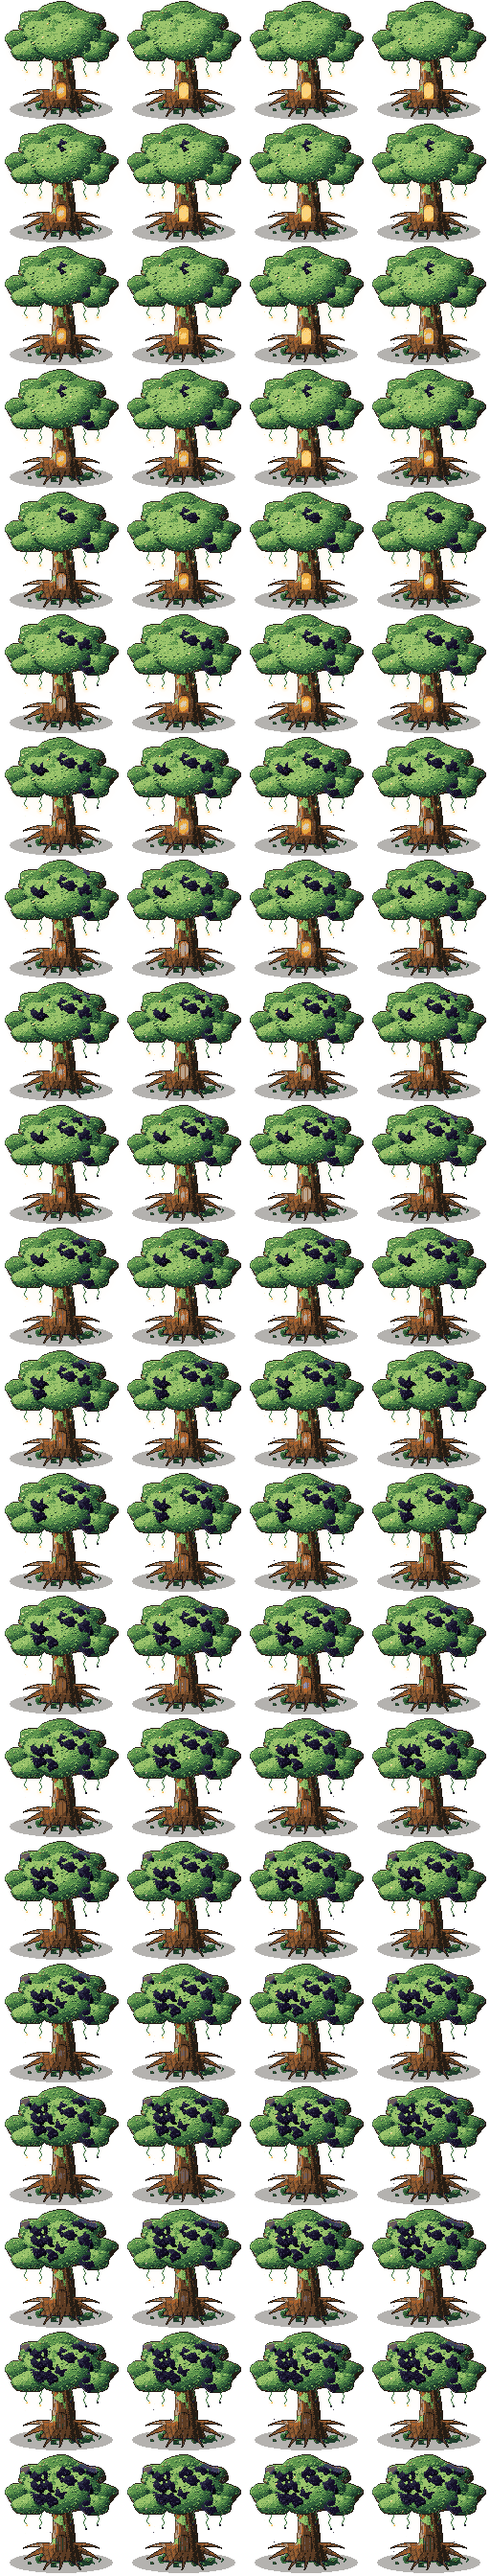
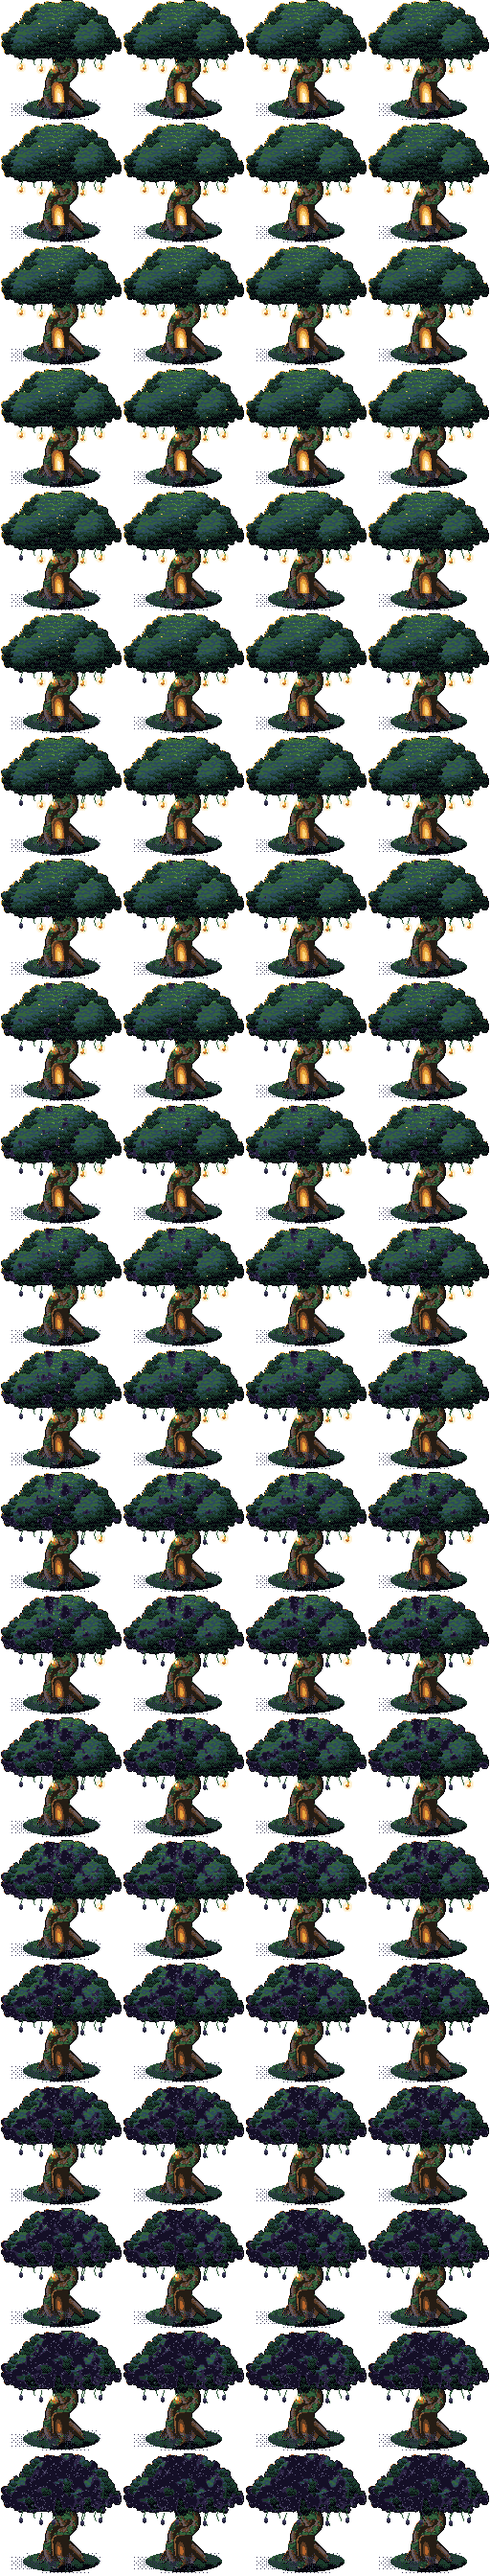
Map Heartwood: redrawn to match the Memory Grove's Heartwood
Twisted three-strand trunk leaning in an S, cool grey-brown mossy bark with a 1 px gold rim, the Hollow's banded gold light, a night crown (green-black shade, cool lit tops, a few bright clusters), moss drapes and dream-fruit, a mossy mound and muted violet mist at its feet. Same sheet format (21 damage rows x 4 frames, 128 px): rot spreads, fruit darken one per 4 leaves lost, the rim turns ember, the Hollow fades by 20. The sheet is palette-snapped only (SNAP_ONLY): it's drawn with its own rim and banding, and the shared detail pass doubled the rim and haloed the crown.

diff --git a/Project_T/tools/environment_art/heartwood_grounds.html b/Project_T/tools/environment_art/heartwood_grounds.html
@@ -783,120 +783,136 @@ function mist(A, f, eyes = true) {
 }
 
 // `lost` leaves (0–20): each one blackens a patch of canopy and dims the hollow.
+// The Heartwood (goal), redrawn 2026-09-30 to match the Memory Grove's Heartwood (tools/meta_art):
+// a twisted three-strand trunk leaning in an S, cool grey-brown mossy bark with a 1 px gold rim, the
+// Hollow's banded gold light, a night crown (green-black shade, cool lit tops, a few bright clusters),
+// moss drapes and dream-fruit, a mossy mound, and muted violet dream mist at its feet.
+// Damage (lost 0..20): rot spreads through the crown, fruit go dark one per 4 leaves, the rim turns
+// ember and the Hollow's light fades out by 20. Colours by Heartwood 32 name.
+const HWN = {
+  Void: "#05050d", Night: "#24243c", Dusk: "#3c3c5c", Slate: "#5c5a78", Dread: "#140f26", Shade: "#2c2444",
+  Bruise: "#4c3c74", Wraithlight: "#9a84e8", Deepmoss: "#1c3c2c", Moss: "#34643c", Leaf: "#5c944c",
+  Root: "#241c14", Bark: "#5c3c24", Oak: "#8c5c34", Loam: "#6c5c5c", Ember: "#b8662c", Gold: "#e9a83c",
+  Glow: "#fcd47c", Heartlight: "#fff4dc", Pool: "#2c4c5c",
+};
+function heartCatmull(pts, samples) {
+  const out = [];
+  for (let i = 0; i < pts.length - 1; i++) {
+    const p0 = pts[Math.max(0, i - 1)], p1 = pts[i], p2 = pts[i + 1], p3 = pts[Math.min(pts.length - 1, i + 2)];
+    for (let s = 0; s < samples; s++) {
+      const t = s / samples, t2 = t * t, t3 = t2 * t;
+      out.push([0, 1].map(k => .5 * (2 * p1[k] + (-p0[k] + p2[k]) * t + (2 * p0[k] - 5 * p1[k] + 4 * p2[k] - p3[k]) * t2 + (-p0[k] + 3 * p1[k] - 3 * p2[k] + p3[k]) * t3)));
+    }
+  }
+  out.push(pts[pts.length - 1]);
+  return out;
+}
+function heartPath(L, pts, w0, w1, fn) {
+  let len = 0; const cum = [0];
+  for (let i = 1; i < pts.length; i++) { len += Math.hypot(pts[i][0] - pts[i - 1][0], pts[i][1] - pts[i - 1][1]); cum.push(len); }
+  for (let i = 1; i < pts.length; i++) stroke(L, pts[i - 1][0], pts[i - 1][1], pts[i][0], pts[i][1], w0 + (w1 - w0) * cum[i - 1] / len, w0 + (w1 - w0) * cum[i] / len, fn);
+}
 function heartwood(A, f, lost = 0) {
-  // The Heartwood keeps its own warm moss-gold in every act: it's the warm side of the contrast.
-  const W = 128, out = new Img(W, W), Tr = new Img(W, W), Cn = new Img(W, W);
-  const HC = HEART_CANOPY, HB = HEART_BARK, bf = barkFn(HB), warm = 1 - lost / 26, flick = [.8, .92, 1, .9][f];
-
-  // Warm halo behind the whole tree, ground shadow, and a ring of moss at its foot.
-  ellipse(out, 64, 46, 62, 46, (x, y, dx, dy) => CA("#ffd27a", (1 - Math.hypot(dx, dy)) * .2 * warm));
-  ellipse(out, 64, 114, 54, 11, SHADOW(.34));
-  ellipse(out, 64, 111, 42, 8, (x, y, dx, dy) => {
-    const n = pnoise(x, y, 5, 41);
-    return n + Math.hypot(dx, dy) * .5 > .95 ? null : pick([HC[1], HC[2], HC[3]], clamp(.5 - dy * .4 + (n - .5), 0, 1), x, y);
-  });
-
-  // Roots: tapering curves that spread and curl over the ground.
-  const root = (p0, p1, p2, w0) => {
-    let [px, py] = p0;
-    for (let i = 1; i <= 10; i++) {
-      const t = i / 10, u = 1 - t;
-      const x = u * u * p0[0] + 2 * u * t * p1[0] + t * t * p2[0], y = u * u * p0[1] + 2 * u * t * p1[1] + t * t * p2[1];
-      stroke(Tr, px, py, x, y, w0 * (1 - (t - .1) * .8), w0 * (1 - t * .8), bf);
-      px = x; py = y;
-    }
+  const MH = 128, out = new Img(MH, MH), WOOD = new Img(MH, MH), dmg = lost / 20, E = ellipseRaw;
+  // Ground: a low mossy mound the roots sink into (lit on its upper left).
+  E(out, 64, 113, 40, 11, (x, y, dx, dy) => pick([HWN.Void, HWN.Deepmoss, HWN.Deepmoss, HWN.Moss], clamp(.45 - dy * .35 - dx * .2 + (pnoise(x, y, 4, 7) - .5) * .4, 0, 1), x, y, .6));
+  // Wood: cylinder light from the upper left, cool grey-brown (the warmth is saved for the Hollow and rim).
+  const wood = seed => (x, y, nx) => {
+    if (Math.abs(nx) > .8) return HWN.Root;
+    const t = .55 - nx * .5 + (pnoise(x * 2, y, 6, seed) - .5) * .25;
+    return pick([HWN.Root, HWN.Root, HWN.Bark, HWN.Loam], clamp(t, 0, 1), x, y, .5);
   };
-  root([54, 100], [42, 100], [26, 110], 10); root([74, 100], [86, 100], [102, 110], 10);
-  root([58, 104], [52, 112], [46, 121], 8); root([70, 104], [78, 112], [84, 121], 8);
-  root([52, 97], [40, 93], [24, 99], 7); root([76, 97], [88, 93], [104, 99], 7);
-  root([64, 106], [65, 114], [62, 122], 7);
-
-  // Trunk: a slow S-twist with bark grooves following it, a flared base and moss on the lit side.
-  for (let y = 54; y <= 112; y++) {
-    const cx = 64 + Math.sin((112 - y) / 18) * 2.5;
-    let w = 10 + (y - 54) * .07; if (y > 94) w += (y - 94) * .55;
-    for (let x = Math.floor(cx - w); x <= Math.ceil(cx + w); x++) {
-      const nx = (x + .5 - cx) / w; if (Math.abs(nx) > 1) continue;
-      const groove = Math.abs((((nx * 3.2 + Math.sin(y * .13) * .35 + y * .015) % 1) + 1) % 1 - .5) < .09;
-      let c = nx < -.5 ? HB[3] : nx > .45 ? HB[1] : HB[2];
-      if (groove) c = nx < -.5 ? HB[2] : HB[1];
-      if (y < 100 && nx < .2 && pnoise(x, y, 7, 43) > .64) c = pick([HC[2], HC[3], HC[4]], clamp(.6 - nx * .4, 0, 1), x, y);
-      Tr.set(x, y, c);
+  // Roots: short thick flares bending down into the mound.
+  [[[58, 98], [48, 105], [42, 112]], [[70, 98], [80, 105], [86, 111]], [[61, 103], [56, 113]], [[67, 103], [72, 113]]]
+    .forEach((r, i) => heartPath(WOOD, heartCatmull(r, 8), [15, 15, 12, 12][i], 7, wood(20 + i)));
+  // The trunk: three strands twisting up an S-curve, then three limbs into the crown.
+  const spine = heartCatmull([[64, 110], [58, 96], [62, 82], [70, 70], [64, 56]], 10), N = spine.length - 1;
+  for (let i = 0; i < N; i++) {
+    const [x0, y0] = spine[i], [x1, y1] = spine[i + 1], d = Math.hypot(x1 - x0, y1 - y0) || 1, px = -(y1 - y0) / d, py = (x1 - x0) / d, segs = [];
+    for (let k = 0; k < 3; k++) {
+      const a0 = i / N * .8 * Math.PI * 2 + k * 2.094, a1 = (i + 1) / N * .8 * Math.PI * 2 + k * 2.094, w0 = 32 - i / N * 10, w1 = 32 - (i + 1) / N * 10;
+      segs.push({ z: Math.cos(a0), a: [x0 + px * Math.sin(a0) * w0 * .25, y0 + py * Math.sin(a0) * w0 * .25], b: [x1 + px * Math.sin(a1) * w1 * .25, y1 + py * Math.sin(a1) * w1 * .25], w0: w0 * .5, w1: w1 * .5, k });
+    }
+    segs.sort((p, q) => p.z - q.z).forEach(s => stroke(WOOD, s.a[0], s.a[1], s.b[0], s.b[1], s.w0, s.w1, wood(30 + s.k * 5)));
+  }
+  for (const limb of [[[64, 58], [52, 50], [40, 42]], [[64, 58], [64, 46], [66, 36]], [[64, 58], [78, 50], [90, 42]]]) heartPath(WOOD, heartCatmull(limb, 6), 12, 5, wood(40));
+  out.stamp(WOOD, HWN.Void);
+  const inHollow = (x, y) => x > 52 && x < 72 && y > 84 && y < 108;
+  for (let y = 1; y < MH - 1; y++) for (let x = 1; x < MH - 1; x++) {
+    if (!WOOD.alpha(x, y) || !WOOD.alpha(x + 1, y + 1)) continue;
+    if (!WOOD.alpha(x - 1, y) && !WOOD.alpha(x, y - 1)) out.set(x, y, dmg > .6 ? HWN.Ember : HWN.Gold);  // 1 px gold rim, upper-left edge only
+    else if (!inHollow(x, y)) {  // moss patches, like the title's mossy giant
+      const n = pnoise(x, y, 6, 95) * .7 + pnoise(x, y, 2, 96) * .3;
+      if (n > .62) out.set(x, y, n > .72 ? HWN.Moss : HWN.Deepmoss); else if (n > .59 && hash(x, y, 97) < .5) out.set(x, y, HWN.Leaf);
     }
   }
-  for (const [x1, y1, w] of [[38, 40, 6], [90, 38, 6], [62, 30, 6], [26, 54, 4], [104, 54, 4]]) stroke(Tr, 64, 62, x1, y1, w, 2.5, bf);
-
-  // The hollow: an arched doorway into the tree, full of warm light.
-  const hollow = [];
-  for (let y = 82; y <= 102; y++) for (let x = 56; x <= 72; x++) {
-    const dx = x + .5 - 64;
-    if (Math.abs(dx) <= 6 && (y >= 90 || Math.hypot(dx, (y + .5 - 90) * 1.1) <= 6)) hollow.push([x, y]);
+  // The Hollow: a pointed doorway at the trunk's foot, banded gold light that dims with damage.
+  const glow = [HWN.Heartlight, HWN.Glow, HWN.Gold, HWN.Ember, HWN.Bark, HWN.Root], dim = Math.round(dmg * 3.2);
+  for (let y = 86; y <= 106; y++) for (let x = 54; x <= 70; x++) {
+    const dx = x + .5 - 62 - (y - 106) * .08, inside = Math.abs(dx) <= 5.5 && (y >= 92 || Math.hypot(dx, (y - 92) * .9) <= 5.5);
+    const lip = !inside && Math.abs(dx) <= 7 && (y >= 92 || Math.hypot(dx, (y - 92) * .9) <= 7);
+    if (lip) { out.set(x, y, dx < 0 ? HWN.Oak : HWN.Root); continue; }
+    if (!inside) continue;
+    const r = Math.hypot(dx / 5.5, (y - 101) / 14);
+    out.set(x, y, glow[Math.min(5, (r < .35 ? 0 : r < .65 ? 1 : r < .9 ? 2 : 3) + dim)]);
   }
-  const hs = new Set(hollow.map(p => p + ""));
-  const inner = (x, y) => hs.has([x + 1, y] + "") && hs.has([x - 1, y] + "") && hs.has([x, y - 1] + "");
-  for (const [x, y] of hollow) Tr.set(x, y, inner(x, y) ? "#2a160a" : "#1a0e08");
-  out.stamp(Tr, HB[0]);
-  for (const [x, y] of hollow) {
-    if (!inner(x, y)) continue;
-    const r = Math.hypot(x + .5 - 64, (y + .5 - 95) * .8) / 8;
-    out.set(x, y, CA(r < .35 ? "#fff4c8" : r < .7 ? "#ffd27a" : "#e0883a", flick * warm));
+  // (no glow painted over the wood: it would blend into solid gold once snapped to the palette)
+  // The crown: leaf clusters on three lit lobes; green-black shade, cool lit tops.
+  const W = MH, L = new Img(W, W), TIER = new Int8Array(W * W).fill(-1);
+  const inCrown = (x, y) => [[64, 36, 52, 26], [28, 44, 24, 16], [100, 44, 24, 16], [64, 18, 38, 16], [40, 24, 20, 12], [88, 24, 20, 12]].some(([cx, cy, rx, ry]) => ((x - cx) / rx) ** 2 + ((y - cy) / ry) ** 2 < 1 + (pnoise(x, y, 10, 11) - .5) * .35);
+  const lobe = (x, y) => { let t = -1; for (const [lx, ly, r] of [[32, 42, 20], [96, 42, 20], [64, 24, 28]]) { const dx = (x - lx) / r, dy = (y - ly) / r, q = dx * dx + dy * dy; if (q <= 1) t = Math.max(t, clamp((-dx * .5 - dy * .8 + Math.sqrt(1 - q) * .5 + .2) / 1.2, 0, 1)); } return t < 0 ? .25 : t; };
+  const cl = [];
+  for (let gy = 2; gy < 66; gy += 4) for (let gx = 0; gx < W; gx += 5) {
+    const x = gx + (hash(gx, gy, 12) - .5) * 3 + (gy / 4 % 2) * 2.5, y = gy + (hash(gx, gy, 13) - .5) * 2;
+    if (inCrown(x, y)) cl.push([x, y, 3 + hash(gx, gy, 14) * 1.6]);
   }
-  for (let x = 57; x <= 71; x++) out.set(x, 103, CA("#ffd27a", .35 * warm * flick));
-
-  // Canopy: a darker back layer for depth, then front clusters, then small leaf clumps
-  // (a lit arc over a shadowed underside) so it reads as foliage, not as balls.
-  [[64, 16, 26, 14], [38, 24, 20, 13], [90, 24, 20, 13], [20, 42, 15, 11], [108, 42, 15, 11]]
-    .forEach(([x, y, rx, ry], k) => blob(Cn, x, y, rx, ry, HC.slice(0, 4), { lump: .12, seed: k * 13 + 1, tex: .1, rim: true }));
-  [[64, 26, 20, 12], [48, 36, 24, 16], [80, 36, 24, 16], [30, 54, 18, 11], [98, 54, 18, 11], [64, 48, 30, 15]]
-    .forEach(([x, y, rx, ry], k) => blob(Cn, x, y, rx, ry, HC.slice(1), { lump: .1, seed: k * 17 + 5, tex: .1, rim: true }));
-  for (let k = 0; k < 110; k++) {
-    const x = 8 + Math.floor(hash(k, 7, 912) * 112), y = 4 + Math.floor(hash(k, 8, 912) * 62);
-    if (!Cn.alpha(x - 1, y) || !Cn.alpha(x + 2, y + 2) || !Cn.alpha(x, y - 1)) continue;
-    const hi = x < 70 && y < 44 && hash(k, 9, 912) < .5 ? HEART_LEAF_HI : x < 80 && y < 50 ? HC[4] : HC[3];
-    Cn.set(x - 1, y + 1, hi); Cn.set(x, y, hi); Cn.set(x + 1, y, hi); Cn.set(x + 2, y + 1, HC[3]);
-    Cn.set(x, y + 2, HC[1]); Cn.set(x + 1, y + 2, HC[1]);
-  }
-  out.stamp(Cn, HC[0]);
-
-  // Vines hanging from the canopy's underside, each ending in a glowing dream-fruit.
-  // Fruit go dark as leaves are lost.
-  [[26, 10], [42, 14], [56, 8], [74, 12], [88, 15], [102, 9]].forEach(([vx, len], k) => {
-    let vy = 72; while (vy > 0 && !Cn.alpha(vx, vy)) vy--;
-    let fx = vx;
-    for (let i = 1; i <= len; i++) { fx = vx + Math.round(Math.sin(i * .7 + k) * .8); out.set(fx, vy + i, i % 3 === 2 ? HC[3] : HC[2]); }
-    const fy = vy + len + 1;
-    if (k < 6 - Math.floor(lost / 4)) {
-      const a = (.75 + .25 * ((f + k) % 2)) * warm;
-      ellipse(out, fx + 1, fy + 1, 4.5, 4.5, (x, y, dx, dy) => CA("#ffd27a", (1 - Math.hypot(dx, dy)) * .4 * a));
-      out.set(fx, fy, "#fff4c8"); out.set(fx + 1, fy, "#ffd27a"); out.set(fx, fy + 1, "#ffd27a"); out.set(fx + 1, fy + 1, "#e0883a");
-    } else {
-      out.set(fx, fy, "#2a2030"); out.set(fx + 1, fy, "#1a1420"); out.set(fx, fy + 1, "#1a1420"); out.set(fx + 1, fy + 1, "#0e0a12");
+  cl.sort((a, b) => b[1] - a[1]).forEach(([cx, cy, r]) => {
+    const base = clamp(1 + Math.floor((lobe(cx, cy) * .9 + .2 - (cy - 16) / 60 * .45) * 4), 1, 4);
+    for (let y = Math.floor(cy - r); y <= cy + r; y++) for (let x = Math.floor(cx - r); x <= cx + r; x++) {
+      const dx = (x + .5 - cx) / r, dy = (y + .5 - cy) / r, q = Math.hypot(dx, dy); if (q > 1 || x < 0 || y < 0 || x >= W || y >= W) continue;
+      TIER[y * W + x] = clamp(dy > .35 && q > .6 ? base - 1 : dx < .2 && dy < 0 && q < .7 ? base + 1 : base, 0, 5);
     }
   });
-  const rot = [];
-  for (let k = 0; k < 20; k++) rot.push([26 + hash(k, 5, 911) * 76, 12 + hash(k, 6, 911) * 50]);
-  // Blackened leaves: ragged patches of violet-black with ashen clump highlights, not flat circles.
-  for (let k = 0; k < lost; k++) {
-    const [cx, cy] = rot[k];
-    ellipse(out, cx, cy, 10, 8, (x, y, dx, dy) => {
-      if (!Cn.alpha(x, y) || pnoise(x, y, 4, 900 + k) < Math.hypot(dx, dy) * .85) return null;
-      if (hash(x, y, 950 + k) < .08) return "#3e344c";
-      return pick(["#0e0a14", "#1c1626", "#2c2438"], clamp(.55 - dx * .3 - dy * .35, 0, 1), x, y);
-    });
+  const LEAF = [HWN.Void, HWN.Void, HWN.Deepmoss, HWN.Pool, HWN.Moss, HWN.Moss];
+  for (let y = 0; y < W; y++) for (let x = 0; x < W; x++) {
+    let t = TIER[y * W + x]; if (t < 0) continue;
+    let below = 0; for (let yy = y + 1; yy < W && TIER[yy * W + x] >= 0; yy++) below++;
+    if (below < 3) t = Math.min(t, 2);  // a dark green belly
+    const rot = pnoise(x, y, 10, 21) * .7 + pnoise(x, y, 3, 22) * .3;
+    if (dmg > 0 && rot > 1 - dmg * .62) { L.set(x, y, hash(x, y, 23) < .05 ? HWN.Slate : rot > 1.08 - dmg * .62 ? HWN.Dread : HWN.Shade); continue; }
+    L.set(x, y, t === 1 ? ((x + y) % 2 ? HWN.Void : HWN.Deepmoss) : t >= 4 && y < 22 && hash(x, y, 24) < .15 ? HWN.Leaf : LEAF[t]);
   }
-  for (let k = 0; k < Math.min(lost, 4); k++) {
-    const ph = ((f / 4) + k / 4) % 1;
-    out.set(30 + k * 20 + Math.sin(ph * 6) * 3, 72 + ph * 40, CA("#16121c", Math.sin(ph * Math.PI)));
+  const C2 = new Img(W, W); C2.stamp(L, HWN.Void);
+  out.put(C2);
+  for (let y = 1; y < MH; y++) for (let x = 1; x < MH; x++) if (C2.alpha(x, y) && !C2.alpha(x - 1, y - 1) && C2.alpha(x + 1, y + 1) && hash(x, y, 31) < .7 - dmg * .5) out.set(x, y, dmg > .6 ? HWN.Ember : HWN.Gold);
+  // Moss drapes from the crown's belly.
+  for (let k = 0; k < 9; k++) {
+    const x = 18 + hash(k, 1, 33) * 92 | 0; let y = 70; while (y > 20 && !C2.alpha(x, y)) y--;
+    if (y < 30) continue;
+    const len = 5 + hash(k, 2, 33) * 9;
+    for (let i = 0; i < len; i++) out.set(x + Math.round(Math.sin(i * .5 + k + f * .4) * .8), y + i, i % 3 ? HWN.Moss : HWN.Deepmoss);
   }
-  const blackened = (x, y) => rot.slice(0, lost).some(([cx, cy]) => Math.hypot((x - cx) / 8, (y - cy) / 6) < 1.1);
-  for (let k = 0; k < 20; k++) {
-    const x = 20 + Math.floor(hash(k, 1, 909) * 88), y = 10 + Math.floor(hash(k, 2, 909) * 52);
-    if (!Cn.alpha(x, y) || !Cn.alpha(x + 1, y + 1) || blackened(x, y)) continue;
-    const on = (k + f) % 4; if (on === 0) continue;
-    out.set(x, y, CA("#fff4b8", on === 2 ? 1 : .6));
-    if (on === 2) { out.set(x + 1, y, CA("#ffd27a", .8)); out.set(x, y + 1, CA("#ffd27a", .8)); }
+  // Twinkling dream-leaves (fewer as the rot spreads).
+  for (let k = 0; k < 14; k++) {
+    const x = 14 + hash(k, 1, 30) * 100 | 0, y = 10 + hash(k, 2, 30) * 44 | 0;
+    if ((k + f) % 4 === 0 || hash(k, 3, 30) < dmg || !out.alpha(x, y)) continue;
+    out.set(x, y, HWN.Glow); if (k % 3 === 0) out.set(x + 1, y, HWN.Gold);
   }
-  for (let k = 0; k < 12; k++) { const ph = ((f / 4) + k / 12) % 1; out.set(14 + hash(k, 3, 910) * 100, 96 - ph * 70 - hash(k, 4, 910) * 10, CA("#ffe9a0", Math.sin(ph * Math.PI) * warm)); }
+  // Vines with dream-fruit; fruit k darkens once lost reaches (k + 1) × 4.
+  [[22, 58, 10], [42, 62, 8], [86, 62, 9], [106, 58, 10], [56, 64, 6]].forEach(([vx, vy, len], k) => {
+    const sway = [0, 1, 0, -1][(f + k) % 4] * (k % 2 ? 1 : .5);
+    for (let i = 0; i < len; i++) out.set(vx + Math.round(Math.sin(i * .5 + k) * .8 + sway * i / len), vy + i, i % 3 ? HWN.Moss : HWN.Deepmoss);
+    const fx = vx + Math.round(sway), fy = vy + len + 2, dark = lost >= (k + 1) * 4;
+    if (!dark) for (const [r, a] of [[4, .45], [5.5, .22]]) E(out, fx, fy, r, r, (x, y, dx, dy) => Math.hypot(dx, dy) > .72 ? CA(HWN.Glow, a) : null);
+    E(out, fx, fy, 2.2, 2.6, (x, y, dx, dy) => dark ? (dy < 0 ? HWN.Dusk : HWN.Night) : dx < 0 && dy < 0 ? HWN.Heartlight : dy > .3 ? HWN.Ember : HWN.Gold);
+  });
+  // Muted violet dream mist drifting over the mound and the roots, thickest at the ground.
+  for (let y = 96; y < 126; y++) for (let x = 12; x < 116; x++) {
+    if (x > 54 && x < 70 && y > 86 && y < 107) continue;
+    const band = clamp(1 - Math.abs(y - 114) / 12, 0, 1) * (1 - Math.abs(x - 64) / 58);
+    const d = band * clamp((pnoise(x + f * 2, y, 9, 34) - .3) * 2.4, 0, 1);
+    if (d > 0 && bay(x, y) < d * .8) out.set(x, y, d > .6 ? HWN.Shade : HWN.Dusk);
+  }
   return out;
 }
 
